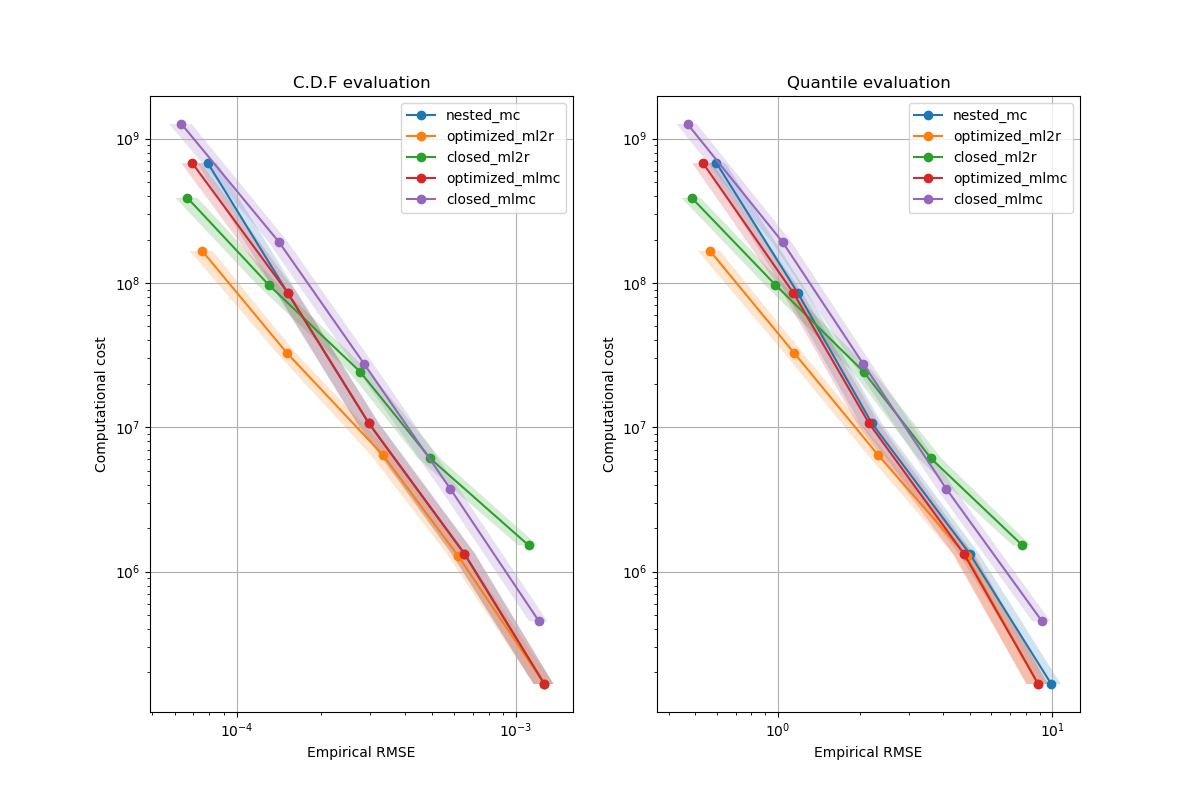
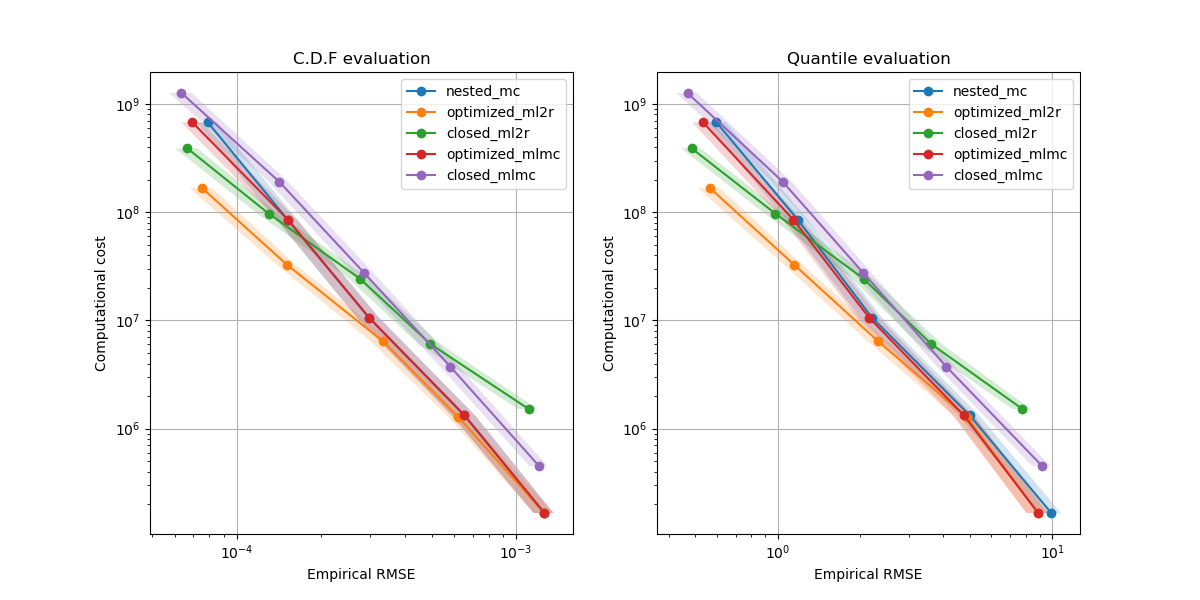
Update fig sizes

diff --git a/scripts/main.py b/scripts/main.py
@@ -328,7 +328,7 @@ if params_plot_all["enabled"]:
     plt.grid()
     plt.savefig(Path("./outputs/quantile_all_rmse_cost.png"))
 
-    fig, (ax1, ax2) = plt.subplots(1, 2, figsize=(12, 8))
+    fig, (ax1, ax2) = plt.subplots(1, 2, figsize=(12, 6))
 
     ax1.set_title("C.D.F evaluation")
     for key in cdf_rmse.keys():
